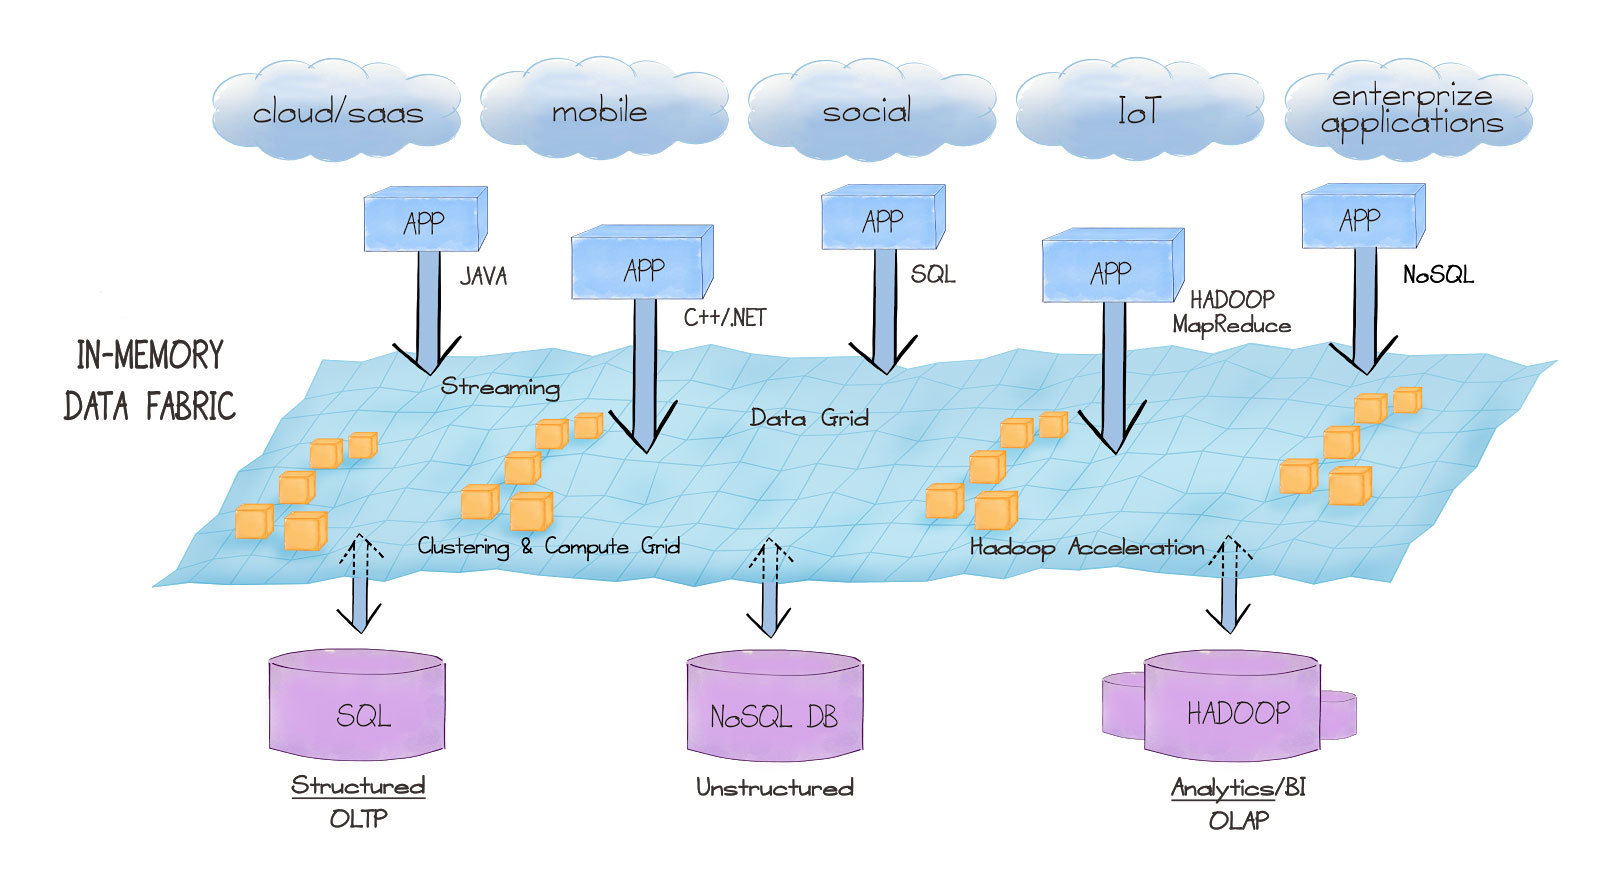
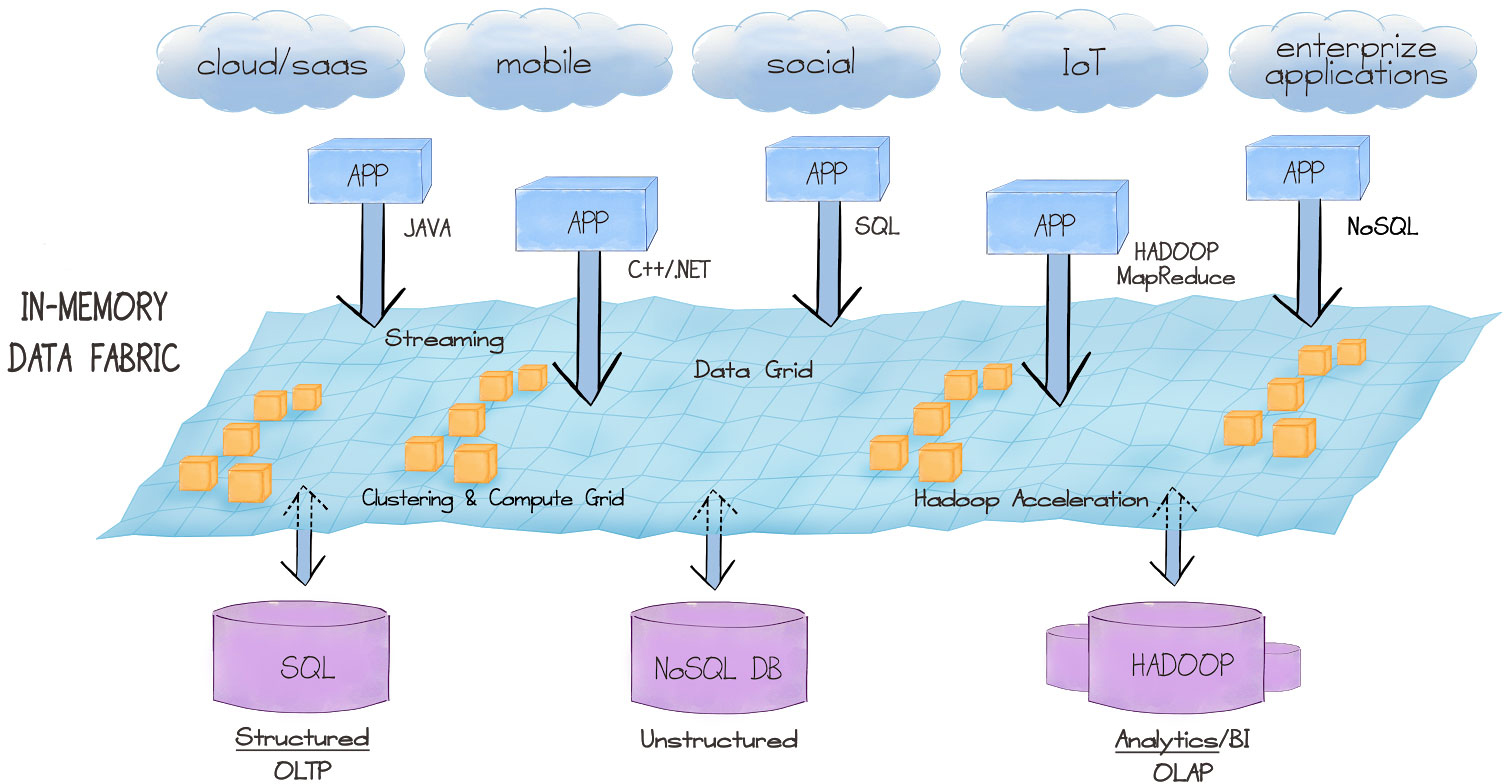
WIP.
git-svn-id: https://svn.apache.org/repos/asf/incubator/ignite/site/branches/sidenav@1653675 13f79535-47bb-0310-9956-ffa450edef68

diff --git a/index.html b/index.html
@@ -137,21 +137,23 @@
             <section class="overview" id="overview">
                 <h2>Overview</h2>
                 <p>Apache Ignite In-Memory Data Fabric is a high-performance, integrated and distributed in-memory platform for computing and transacting on large-scale data sets in real-time, orders of magnitude faster than possible with traditional disk-based or flash technologies.
-                <img src="images/fabric.jpg" alt="image description" class="img-responsive">
+                <img src="images/fabric.jpg" alt="image description" class="img-responsive" style="padding-top: 40px">
                 <p>Apache Ignite In-Memory Data Fabric is designed to deliver uncompromised performance for a wide set of in-memory computing use cases from high performance computing, to the industry most advanced data grid and streaming.</p>
                 <div class="info-blocks">
                     <h3>Clustering & Compute</h3>
-                    <img src="images/in_memory_compute.png"/><br/><br/>
-                    <div class="row">
-                        <p>Apache Ignite computational features include</p>
-                        <ul class="list-unstyled">
-                            <li>Dynamic Clustering</li>
-                            <li>Fork-Join & MapReduce Processing</li>
-                            <li>Distributed Closure Execution</li>
-                            <li>Load Balancing and Fault Tolerance</li>
-                            <li>Distributed Messaging and Events</li>
-                            <li>Linear Scalability</li>
-                        </ul>
+                    <div class="info-inside-block">
+                        <img src="images/in_memory_compute.png"/><br/><br/>
+                        <div>
+                            <p>Apache Ignite computational features include:</p>
+                            <ul>
+                                <li>Dynamic Clustering</li>
+                                <li>Fork-Join & MapReduce Processing</li>
+                                <li>Distributed Closure Execution</li>
+                                <li>Load Balancing and Fault Tolerance</li>
+                                <li>Distributed Messaging and Events</li>
+                                <li>Linear Scalability</li>
+                            </ul>
+                        </div>
                     </div>
                 </div>
                 <div class="info-blocks">

diff --git a/css/all.css b/css/all.css
@@ -7886,15 +7886,72 @@ p {
 /*
  * Added by Nikita Ivanov.
  */
-h2 {
-  font-size: 28px;
+div, p, h1, h2, h3, span, body, html {
+  font-family: 'Helvetica Neue', Helvetica, Arial, sans-serif;
 }
-.overview h2:after, .documentation h2:after, .download h2:after, .community h2:after {
-  top: 3px;
+
+h2, .h2,
+.overview h2,
+.documentation h2,
+.download h2,
+.community h2 {
+  font-size: 28px;
+  color: #333;
+  padding: 5px 0 20px 0;
+  text-align: center;
+}
+.overview h2:after, .documentation h2:after, .download h2:after, .community h2:after, .overview .h2:after, .documentation .h2:after, .download .h2:after, .community .h2:after, .overview
+.overview h2:after, .documentation
+.overview h2:after, .download
+.overview h2:after, .community
+.overview h2:after, .overview
+.documentation h2:after, .documentation
+.documentation h2:after, .download
+.documentation h2:after, .community
+.documentation h2:after, .overview
+.download h2:after, .documentation
+.download h2:after, .download
+.download h2:after, .community
+.download h2:after, .overview
+.community h2:after, .documentation
+.community h2:after, .download
+.community h2:after, .community
+.community h2:after {
+  display: none;
+  width: 0;
+  height: 0;
+}
+
+h3, .h3 {
+  font-size: 22px;
+  color: #333;
 }
 
 .info-blocks {
   margin-top: 40px;
   padding: 40px 0 24px;
   border-top: 2px solid #ebebeb;
+}
+
+p {
+  line-height: 1.2em;
+  color: #333;
+  font-size: 18px;
+}
+
+.overview p {
+  text-align: center;
+}
+
+.info-inside-block {
+  display: inline-block;
+  width: 100%;
+}
+.info-inside-block > img {
+  float: right;
+  vertical-align: top;
+}
+.info-inside-block > div.row {
+  float: left;
+  vertical-align: top;
 }

diff --git a/scss/all.scss b/scss/all.scss
@@ -979,19 +979,64 @@ p {
  * Added by Nikita Ivanov.
  */
 
-h2 {
+div, p, h1, h2, h3, span, body, html {
+    font-family: 'Helvetica Neue', Helvetica, Arial, sans-serif;
+}
+
+h2, .h2,
+.overview h2,
+.documentation h2,
+.download h2,
+.community h2 {
     font-size: 28px;
+    color: #333;
+    padding: 5px 0 20px 0;
+    text-align: center;
 
     .overview &:after,
     .documentation &:after,
     .download &:after,
     .community &:after {
-        top: 3px;
+        display: none;
+        width: 0;
+        height: 0;
     }
+}
+
+h3, .h3 {
+    font-size: 22px;
+    color: #333;
 }
 
 .info-blocks {
     margin-top: 40px;
     padding: 40px 0 24px;
     border-top: 2px solid #ebebeb;
+}
+
+p {
+    line-height: 1.2em;
+    color: #333;
+    font-size: 18px;
+}
+
+.overview {
+    p {
+        text-align: center;
+    }
+}
+
+.info-inside-block {
+    display: inline-block;
+    width: 100%;
+
+    & > img {
+        float: right;
+        vertical-align: top;
+    }
+
+    & > div.row {
+        float: left;
+        vertical-align: top;
+    }
 }
